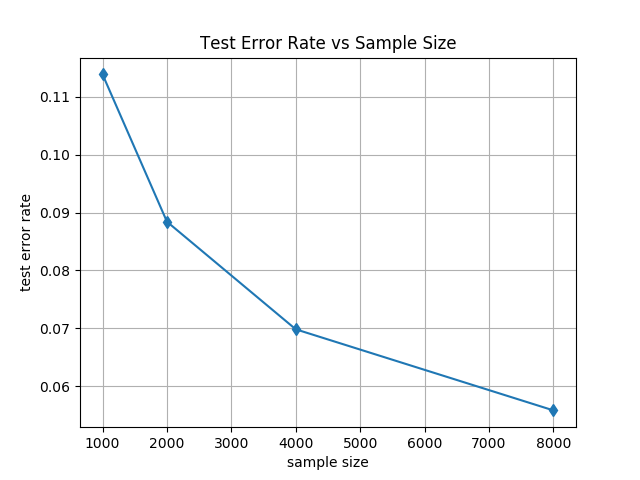
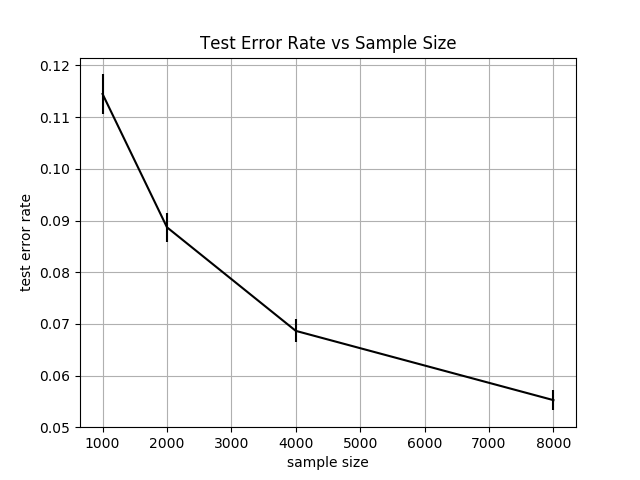
add error bar to code and plot;modified Q1(c)

diff --git a/Q1.py b/Q1.py
@@ -47,19 +47,22 @@ def sampling(steps):
 call the sampling function 10 times
 store results in list "avg"
 '''
-avg=[]
+final=[]
 steps=[1000,2000,4000,8000]
 start_time = time.time()
 for i in range(10):
     temp=np.asarray(sampling(steps))
-    avg.append(temp)
-final=[sum(e)/len(e) for e in zip(*avg)]
+    final.append(temp)
+avg=[sum(e)/len(e) for e in zip(*final)]
+mat=np.vstack(final)
+st=np.std(mat,axis=0)
 print("The model ran for %s seconds" % (time.time() - start_time))
-
+print("The means are: ", avg)
+print("The standard deviations for each step are: ", st)
 
 #---------Plot Test Error Rate--------
 # plot the averaged test error rate with sample size increasing
-plt.plot(steps,final,"-d")
+plt.errorbar(steps,avg,yerr=st,fmt="-0")
 plt.grid()
 plt.xlabel("sample size")
 plt.ylabel("test error rate")

diff --git a/README.md b/README.md
@@ -9,7 +9,7 @@ Q1(Serena):
 
 * (a) To find the vector xi that has the minimal Euclidean distance from x, it suffices to find xi that has the minimal squared Euclidean distance. Therefore, for each row tj in test data, we calculate its squared Euclidean distance to each row xi in training data and find xi\* that yields the smallest result. To achieve this, we leverage the given formula for the calculation:
 
- *  for each tj in test data, we get the last term of the formula X\*X.T by obtaining the diagnal of the dot product of X and X.T
+ * for each tj in test data, we get the last term of the formula X\*X.T by obtaining the diagnal of the dot product of X and X.T
  * for the second term -2T.T\*X, we simply take the dot product of X and T.T
  * as the first term is the same for every tj in the test data, we can ignore this term in our calculation
 
@@ -17,7 +17,7 @@ In the end, for each tj, we obtain an array of the squared Euclidean distance be
 
 As a final step, we predict yi\* for tj by using index i*.
 * (b) See plot
-* (c) It would be a horizontal line at test error rate = 0 as the data we use to evaluate is the same as the data we used to train.
+* (c) It would be a horizontal line at test error rate = 0 as the nearest neighbor for data in the training set is itself, which results in training error rate of 0.
 
 Q2(Brian):
 
